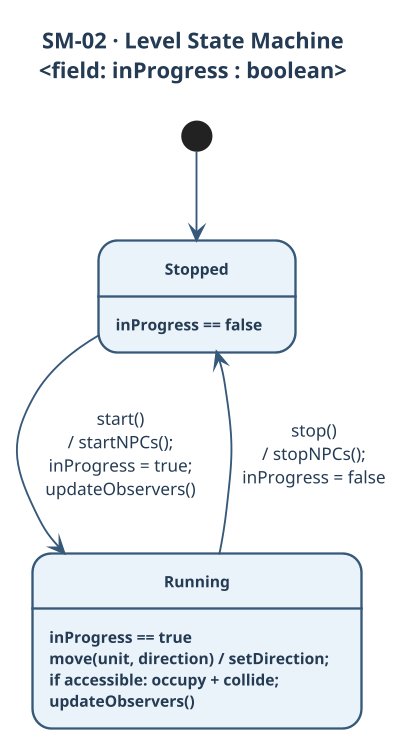
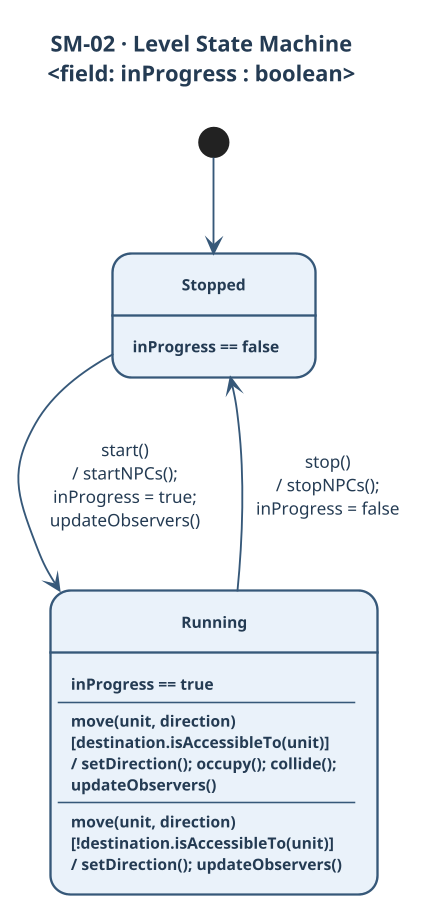
Model Level.move as two guarded internal transitions
Split Running move behaviour into complementary accessibility
guards matching Level.move(), and refresh the evidence table.

diff --git a/A3-State-Machines/State-Machine-Code-Evidence.md b/A3-State-Machines/State-Machine-Code-Evidence.md
@@ -38,7 +38,7 @@ Java source was not modified. Line numbers below were verified against that ZIP.
 
 ### Behaviour summary
 
-`Level` stores lifecycle in `inProgress`. The constructor sets `inProgress = false` (initial state **Stopped**). `start()` is ignored if already running (early return — **not** a guard); otherwise it calls `startNPCs()`, sets `inProgress = true`, and `updateObservers()` (**Stopped → Running**). `stop()` is ignored if already stopped; otherwise it calls `stopNPCs()` and sets `inProgress = false` (**Running → Stopped**). While **Running**, `move(unit, direction)` is modelled as an **internal transition**: if `!isInProgress()` the call returns immediately (ignored in Stopped); otherwise it sets direction, optionally occupies/collides when the destination is accessible, then always calls `updateObservers()`. `updateObservers()` may **send** `levelLost()` / `levelWon()` to observers — these are notifications, **not** stored Level states (assignment / lab guidance).
+`Level` stores lifecycle in `inProgress`. The constructor sets `inProgress = false` (initial state **Stopped**). `start()` is ignored if already running (early return — **not** a guard); otherwise it calls `startNPCs()`, sets `inProgress = true`, and `updateObservers()` (**Stopped → Running**). `stop()` is ignored if already stopped; otherwise it calls `stopNPCs()` and sets `inProgress = false` (**Running → Stopped**). While **Running**, `move(unit, direction)` is modelled as two **internal transitions** with complementary guards from `destination.isAccessibleTo(unit)`: accessible → `setDirection(); occupy(); collide(); updateObservers()`; not accessible → `setDirection(); updateObservers()`. Calls while Stopped return immediately (`!isInProgress()` — ignored, not a guard). `updateObservers()` may **send** `levelLost()` / `levelWon()` to observers — notifications, **not** stored Level states.
 
 ### Evidence table
 
@@ -53,16 +53,15 @@ Java source was not modified. Line numbers below were verified against that ZIP.
 | Event `stop()` / `stopNPCs(); inProgress = false` | `Level` | `stop()` | 216–224 |
 | Ignored `stop()` when already Stopped | `Level` | `stop()` early return | 218–220 |
 | `stopNPCs()` shuts down ghost executors | `Level` | `stopNPCs()` | 244–250 |
-| Internal `move(...)` while Running | `Level` | `move(Unit, Direction)` | 172–195 |
+| Internal `move` `[destination.isAccessibleTo(unit)]` / setDirection; occupy; collide; updateObservers | `Level` | `move` + accessible branch | 172–195 (setDirection 182; occupy/collide 186–191; updateObservers 193) |
+| Internal `move` `[!destination.isAccessibleTo(unit)]` / setDirection; updateObservers | `Level` | `move` when not accessible | 182; 186 false → 193 |
 | `move` ignored when Stopped | `Level` | `if (!isInProgress()) return` | 177–179 |
-| Accessibility check (action condition, not transition guard) | `Level` | `destination.isAccessibleTo(unit)` | 186–192 |
 | Send `levelLost()` / `levelWon()` | `Level` | `updateObservers()` | 265–276 |
 | Observer contract | `Level.LevelObserver` | `levelWon()` / `levelLost()` | 361–373 |
 
 ### Limitations
 
 - Won/Lost are intentionally **not** states of `Level`.
-- Accessibility is a condition inside the `move` action, not a UML guard on Leaving Running.
 - Debugger verification of `Level.stop()` / `start()` is separate and unverified in this package.
 
 ---
